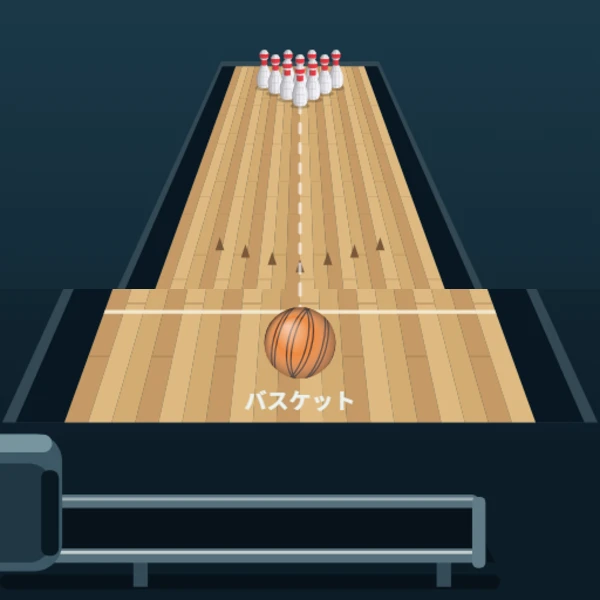
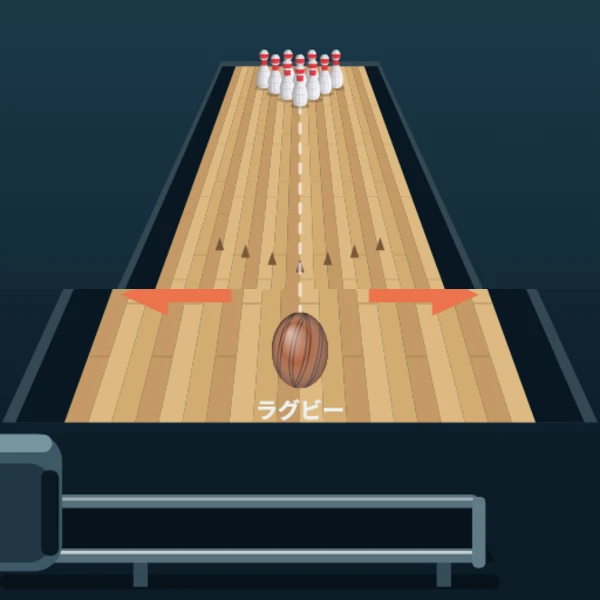
移動と回転の矢印を追加しタップ時に球の位置を合わせる

Changed region(s): [[0.18, 0.48, 0.84, 0.72]]

diff --git a/games/_random-bowling/index.html b/games/_random-bowling/index.html
@@ -204,6 +204,7 @@
     if(y<80) return;
     if(phase==='power') {launch();return;}
     if(phase!=='position'&&phase!=='angle') return;
+    if(phase==='position') position=clamp((x-270)*9.65/720,-2.1,2.1);
     held=true;dragX=x;dragY=y;dragAim=aim;
   }
   function move(x,y) {
@@ -374,6 +375,25 @@
     ctx.fillStyle='#0a1821';roundRect(37,y-55,16,77,7);ctx.fill();
     ctx.fillStyle='#617b87';roundRect(425,y-31,12,64,5);ctx.fill();
   }
+  /* 位置は横向き、角度は弧を描く矢印で示す。文字は足さない。 */
+  function drawGuide() {
+    if(state!==S.PLAY || (phase!=='position'&&phase!=='angle')) return;
+    ctx.save();ctx.translate(270,H-275);ctx.fillStyle='#ec734b';
+    [-1,1].forEach(function(side) {
+      ctx.save();ctx.scale(side,1);
+      ctx.beginPath();
+      if(phase==='position') {
+        ctx.moveTo(62,-7);ctx.lineTo(119,-7);ctx.lineTo(119,-19);
+        ctx.lineTo(161,0);ctx.lineTo(119,19);ctx.lineTo(119,7);ctx.lineTo(62,7);
+      } else {
+        ctx.moveTo(99,31);ctx.bezierCurveTo(152,16,157,-11,111,-28);
+        ctx.lineTo(119,-42);ctx.lineTo(72,-35);ctx.lineTo(102,-6);
+        ctx.lineTo(104,-18);ctx.bezierCurveTo(130,-7,129,8,89,17);
+      }
+      ctx.closePath();ctx.fill();ctx.restore();
+    });
+    ctx.restore();
+  }
   function draw() {
     ctx.fillStyle='#101f29';ctx.fillRect(0,0,W,H);
     var bg=ctx.createLinearGradient(0,120,0,H);bg.addColorStop(0,'#1d3d4d');bg.addColorStop(1,'#091620');ctx.fillStyle=bg;ctx.fillRect(0,0,W,H);
@@ -384,7 +404,6 @@
       floor(x,0,x+5.3/20,24,i%3===0?'#c49966':i%3===1?'#ddba82':'#d3ac72');
       for(var z=1+i%3;z<24;z+=4) floor(x,z,x+5.3/20,z+.025,'#b08758');
     }
-    floor(-2.65,1.8,2.65,1.88,'#f3e7ce');
     for(var i=-3;i<=3;i++) {
       var a=project(i*.55,0,6.5+Math.abs(i)*.32);
       poly([{x:a.x,y:a.y-7},{x:a.x-4,y:a.y+5},{x:a.x+4,y:a.y+5}],'#785839');
@@ -411,6 +430,7 @@
       ctx.restore();
     }
     drawReturn();
+    drawGuide();
     if(state===S.RESULT) drawResult();
   }
 

diff --git a/games/_tools/tests/random-bowling.js b/games/_tools/tests/random-bowling.js
@@ -10,7 +10,7 @@ g.dbg.tick(73);assert.equal(now().phase,'receive');g.press(' ');assert.equal(now
 g.dbg.tick(13);assert.equal(now().phase,'place');g.press(' ');assert.equal(now().phase,'place');
 ready();assert.equal(now().ball,null);
 var cy=g.H-210;
-g.down(270,cy);g.moveTo(345,g.H-210);assert.equal(now().phase,'position');g.up();assert.equal(now().phase,'angle');assert(now().position>0.9);
+g.down(330,cy);assert(now().position>.7,'押した瞬間にその横位置へ移動する');g.moveTo(345,g.H-210);assert.equal(now().phase,'position');g.up();assert.equal(now().phase,'angle');assert(now().position>0.9);
 var pos=now().position;g.down(345,g.H-210);g.moveTo(300,g.H-260);g.up();assert.equal(now().phase,'power');assert(now().aim<0);assert.equal(now().position,pos);
 g.dbg.tick(24);assert(now().power>.4&&now().power<.6);g.tap(270,g.H-160);assert.equal(now().phase,'roll');assert.equal(now().ball.x,pos);
 var speed=now().ball.vz;g.tap(270,g.H-160);assert.equal(now().ball.vz,speed,'連打しても投げ直さない');
